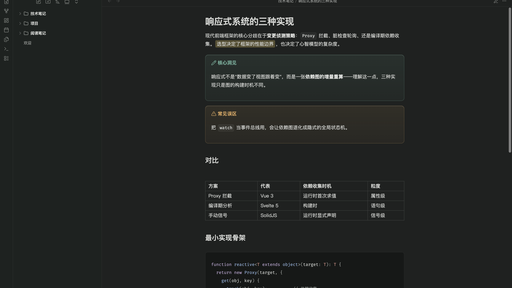
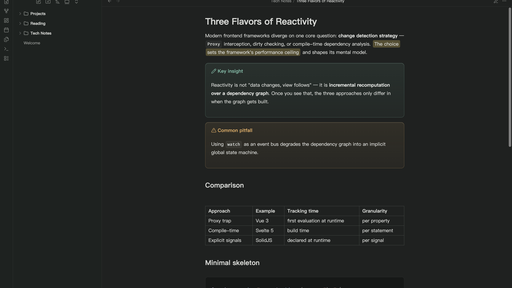
Bilingual README (en default + zh) with per-language screenshots; fix two hover bugs
- README.md (English, default) + README.zh.md, cross-linked;
  screenshots split: en pair (default/store) + zh pair
- Embed-block hover: app.css hover rule re-flattens border-radius
  to 4px — explicit :hover form now keeps callout 10px / mermaid 6px
- Tab hover: app.css paints a second background on
  .workspace-tab-header-inner (square gray block) — neutralized,
  hover now renders as a single capsule

Claude-Session: https://claude.ai/code/session_015NnADoNCE8e1Ud6c7qL4U2

diff --git a/theme.css b/theme.css
@@ -1670,12 +1670,17 @@ body.theme-dark input[data-task="?"].task-list-item-checkbox:checked {
 /* LP 悬停外框圆角对齐（v3.4.1，用户实锤四角穿帮）：callout 在实时预览里
    由 .cm-embed-block 宿主承载，宿主默认 r0——hover 的方角描边套在 10px
    圆角卡外面。宿主圆角对齐内容物；mermaid 宿主同病同修（6px）。 */
-.markdown-source-view.mod-cm6 .cm-embed-block.cm-callout {
+.markdown-source-view.mod-cm6 .cm-embed-block.cm-callout,
+.markdown-source-view.mod-cm6 .cm-embed-block.cm-callout:hover {
   border-radius: var(--jadeveil-radius-m);
 }
-.markdown-source-view.mod-cm6 .cm-embed-block:has(> .mermaid) {
+.markdown-source-view.mod-cm6 .cm-embed-block:has(> .mermaid),
+.markdown-source-view.mod-cm6 .cm-embed-block:has(> .mermaid):hover {
   border-radius: 6px;
 }
+/* :hover 形态必须显式写（v3.4.2，用户实锤二连）：app.css 的
+   `.cm-embed-block:not(...):hover` 自带 border-radius: var(--radius-s)，
+   静息态修好的圆角一进 hover 又被拍回 4px。同特异性晚加载压回。 */
 
 /* ═══════════════════════════ 5. Chrome Glass ═══════════════════════════
    级联结构：「退化态为基底、玻璃态为高特异性覆盖」。
@@ -1877,8 +1882,14 @@ body.theme-dark .nav-files-container :is(.nav-file-title.is-active, .tree-item-s
   color: var(--text-muted);
 }
 .workspace-split.mod-root .workspace-tab-header:hover {
-  background-color: var(--jv-fill-hover);
+  background-color: var(--jv-fill-active); /* v3.4.2：inner 双画笔掐掉后 hover 由本层独担，提一档可感 */
   color: var(--text-normal);
+}
+/* 页签 hover 双画笔修复（v3.4.2，用户实锤）：app.css 把 hover 底色画在
+   .workspace-tab-header-inner 上（自有几何与圆角，呈方角灰块），与本主题
+   header 层的胶囊 hover 叠成两层。掐掉 inner 层，hover 视觉统一走胶囊。 */
+.workspace-tab-header-container .workspace-tab-header:not(.is-active):hover .workspace-tab-header-inner {
+  background-color: transparent;
 }
 .workspace-split.mod-root .workspace-tab-header.is-active {
   background-color: var(--jv-surface-float);

diff --git a/README.zh.md b/README.zh.md
@@ -1,0 +1,37 @@
+# Jadeveil 玉幕
+
+[English](README.md) | 中文
+
+为中文技术写作调校的 Obsidian 主题：半透明侧栏、暖纸色阅读面、低饱和青玉强调色。
+
+| 浅色 | 深色 |
+|---|---|
+| ![浅色](screenshot-light-zh.png) | ![深色](screenshot-dark-zh.png) |
+
+## 特性
+
+- 侧栏 / Ribbon / 状态栏真实半透明（`backdrop-filter`），深浅模式各有一个浓度滑杆
+- 浅色模式暖象牙纸底，深色模式石墨底
+- 一个强调色相驱动 checkbox、标签、选区、焦点环和 callout——色相滑杆可调，饱和度压低，扫到任何位置都不出荧光色
+- 中文排版细节：`text-autospace` / `text-spacing-trim`（按浏览器支持渐进启用）、CJK 友好行高、代码块禁用连字
+- 双模式对比度校验（正文约浅 13:1 / 深 11:1；链接、语法高亮、callout 题字达 WCAG AA）
+- 扩展任务状态：`[-]` 取消、`[>]` 顺延、`[?]` 疑问
+- 兜底可靠：`@media print` 回退白纸黑字；未开启窗口透明时整体退化为实心面
+
+## 使用前提
+
+- 玻璃效果需要开启 **设置 → 外观 → 半透明窗口**（macOS）。不开也能用，退化为实心面；另有"关闭全部玻璃"开关照顾性能敏感场景。
+- 字体只用系统字体栈（SF Pro / 苹方，非 macOS 回退冬青黑体 / 微软雅黑），不从网络加载任何资源。
+- [Style Settings](https://github.com/mgmeyers/obsidian-style-settings) 插件可选——用于调节玻璃浓度、强调色相、字号行宽、OLED 纯黑、代码行号等。不装也有合理默认值。
+
+## 安装
+
+上架社区主题商店之前：把 `manifest.json` 和 `theme.css` 复制到 `<你的库>/.obsidian/themes/Jadeveil/`，然后在 *设置 → 外观 → 主题* 里选择 **Jadeveil**。
+
+## 说明
+
+`theme.css` 有密集的中文注释——变量结构、每个 `!important` 存在的原因、主题依赖了哪些 Obsidian 内部实现。设计取舍见 [`DESIGN.md`](DESIGN.md)。
+
+## 许可
+
+[MIT](LICENSE)

diff --git a/README.md b/README.md
@@ -1,10 +1,12 @@
 # Jadeveil 玉幕
 
-An Obsidian theme for Chinese technical writing: translucent sidebars, warm paper-toned reading surface, and a low-saturation jade green accent.
+English | [中文](README.zh.md)
 
-为中文技术写作调校的 Obsidian 主题：半透明侧栏、暖纸色阅读面、低饱和青玉强调色。
+An Obsidian theme for CJK-heavy technical writing: translucent sidebars, a warm paper-toned reading surface, and a low-saturation jade green accent.
 
-![light](screenshot-light.png) ![dark](screenshot-dark.png)
+| Light | Dark |
+|---|---|
+| ![light](screenshot-light.png) | ![dark](screenshot-dark.png) |
 
 ## Features
 
@@ -28,7 +30,7 @@ Until it's in the community theme store: copy `manifest.json` and `theme.css` in
 
 ## Notes
 
-`theme.css` is heavily commented (in Chinese) — token structure, why each `!important` exists, and which Obsidian internals the theme depends on. `DESIGN.md` has a short summary of the design decisions.
+`theme.css` is heavily commented (in Chinese) — token structure, why each `!important` exists, and which Obsidian internals the theme depends on. [`DESIGN.md`](DESIGN.md) has a short summary of the design decisions.
 
 ## License
 